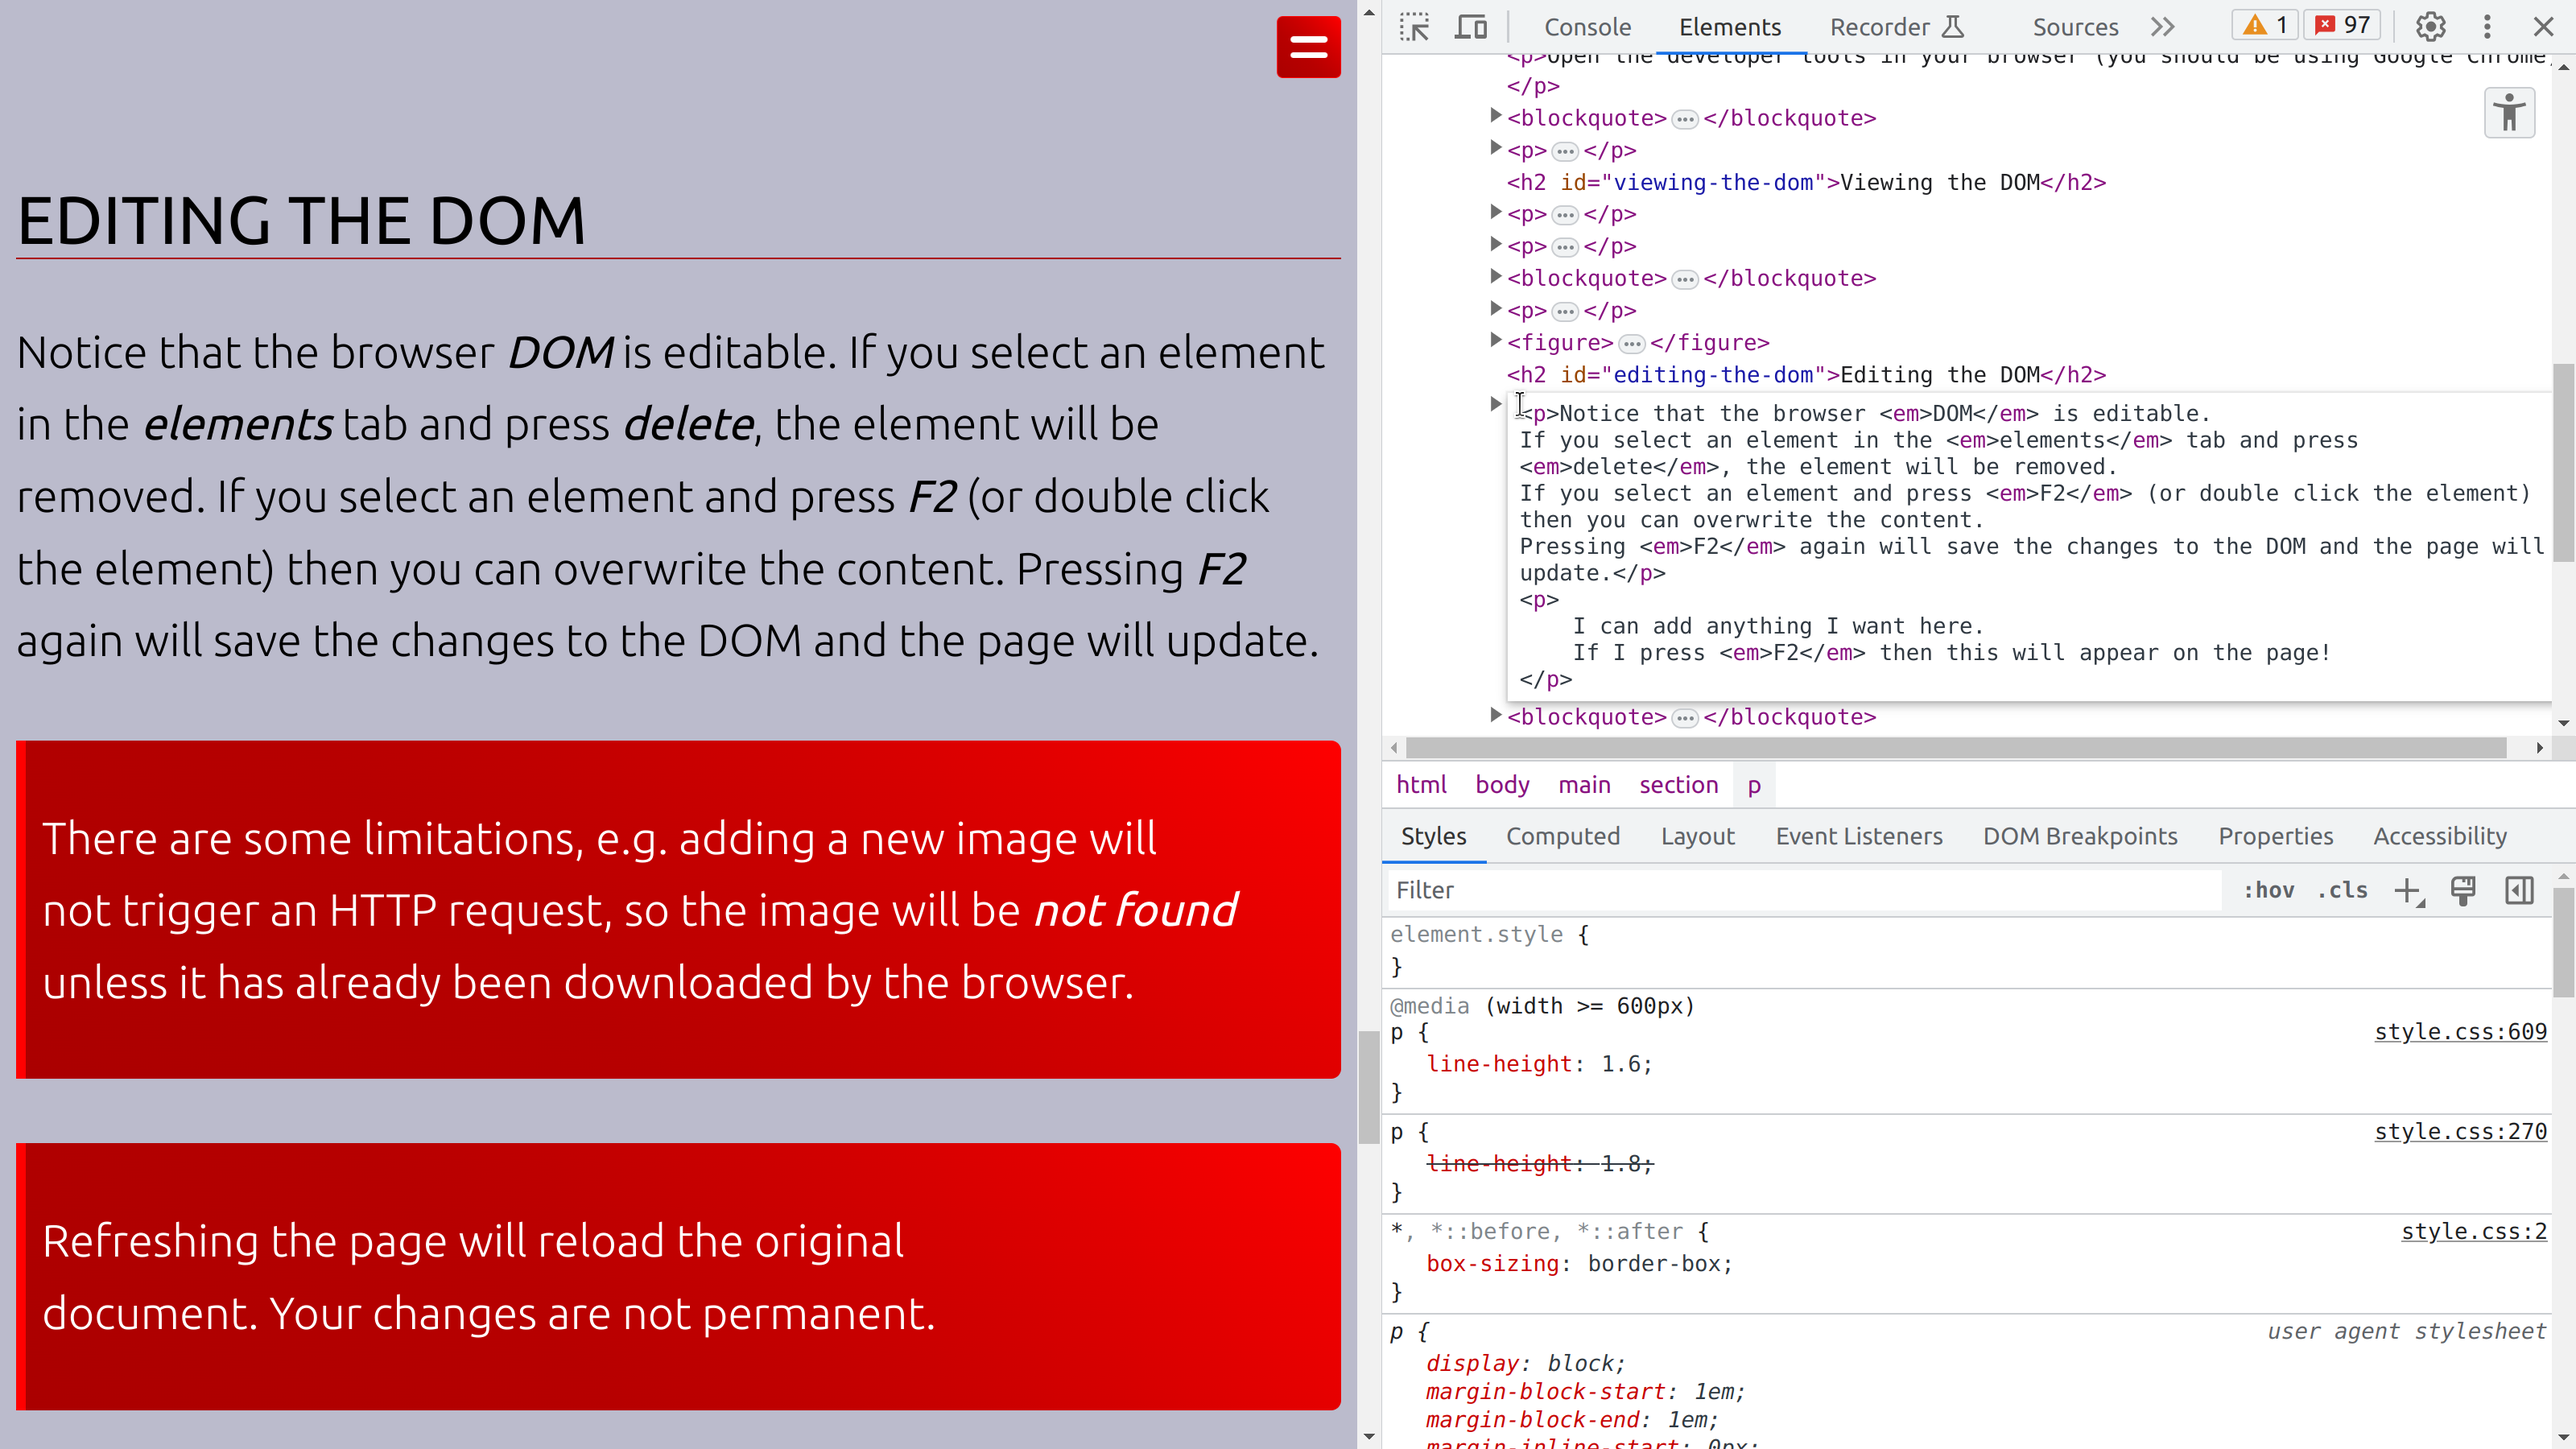
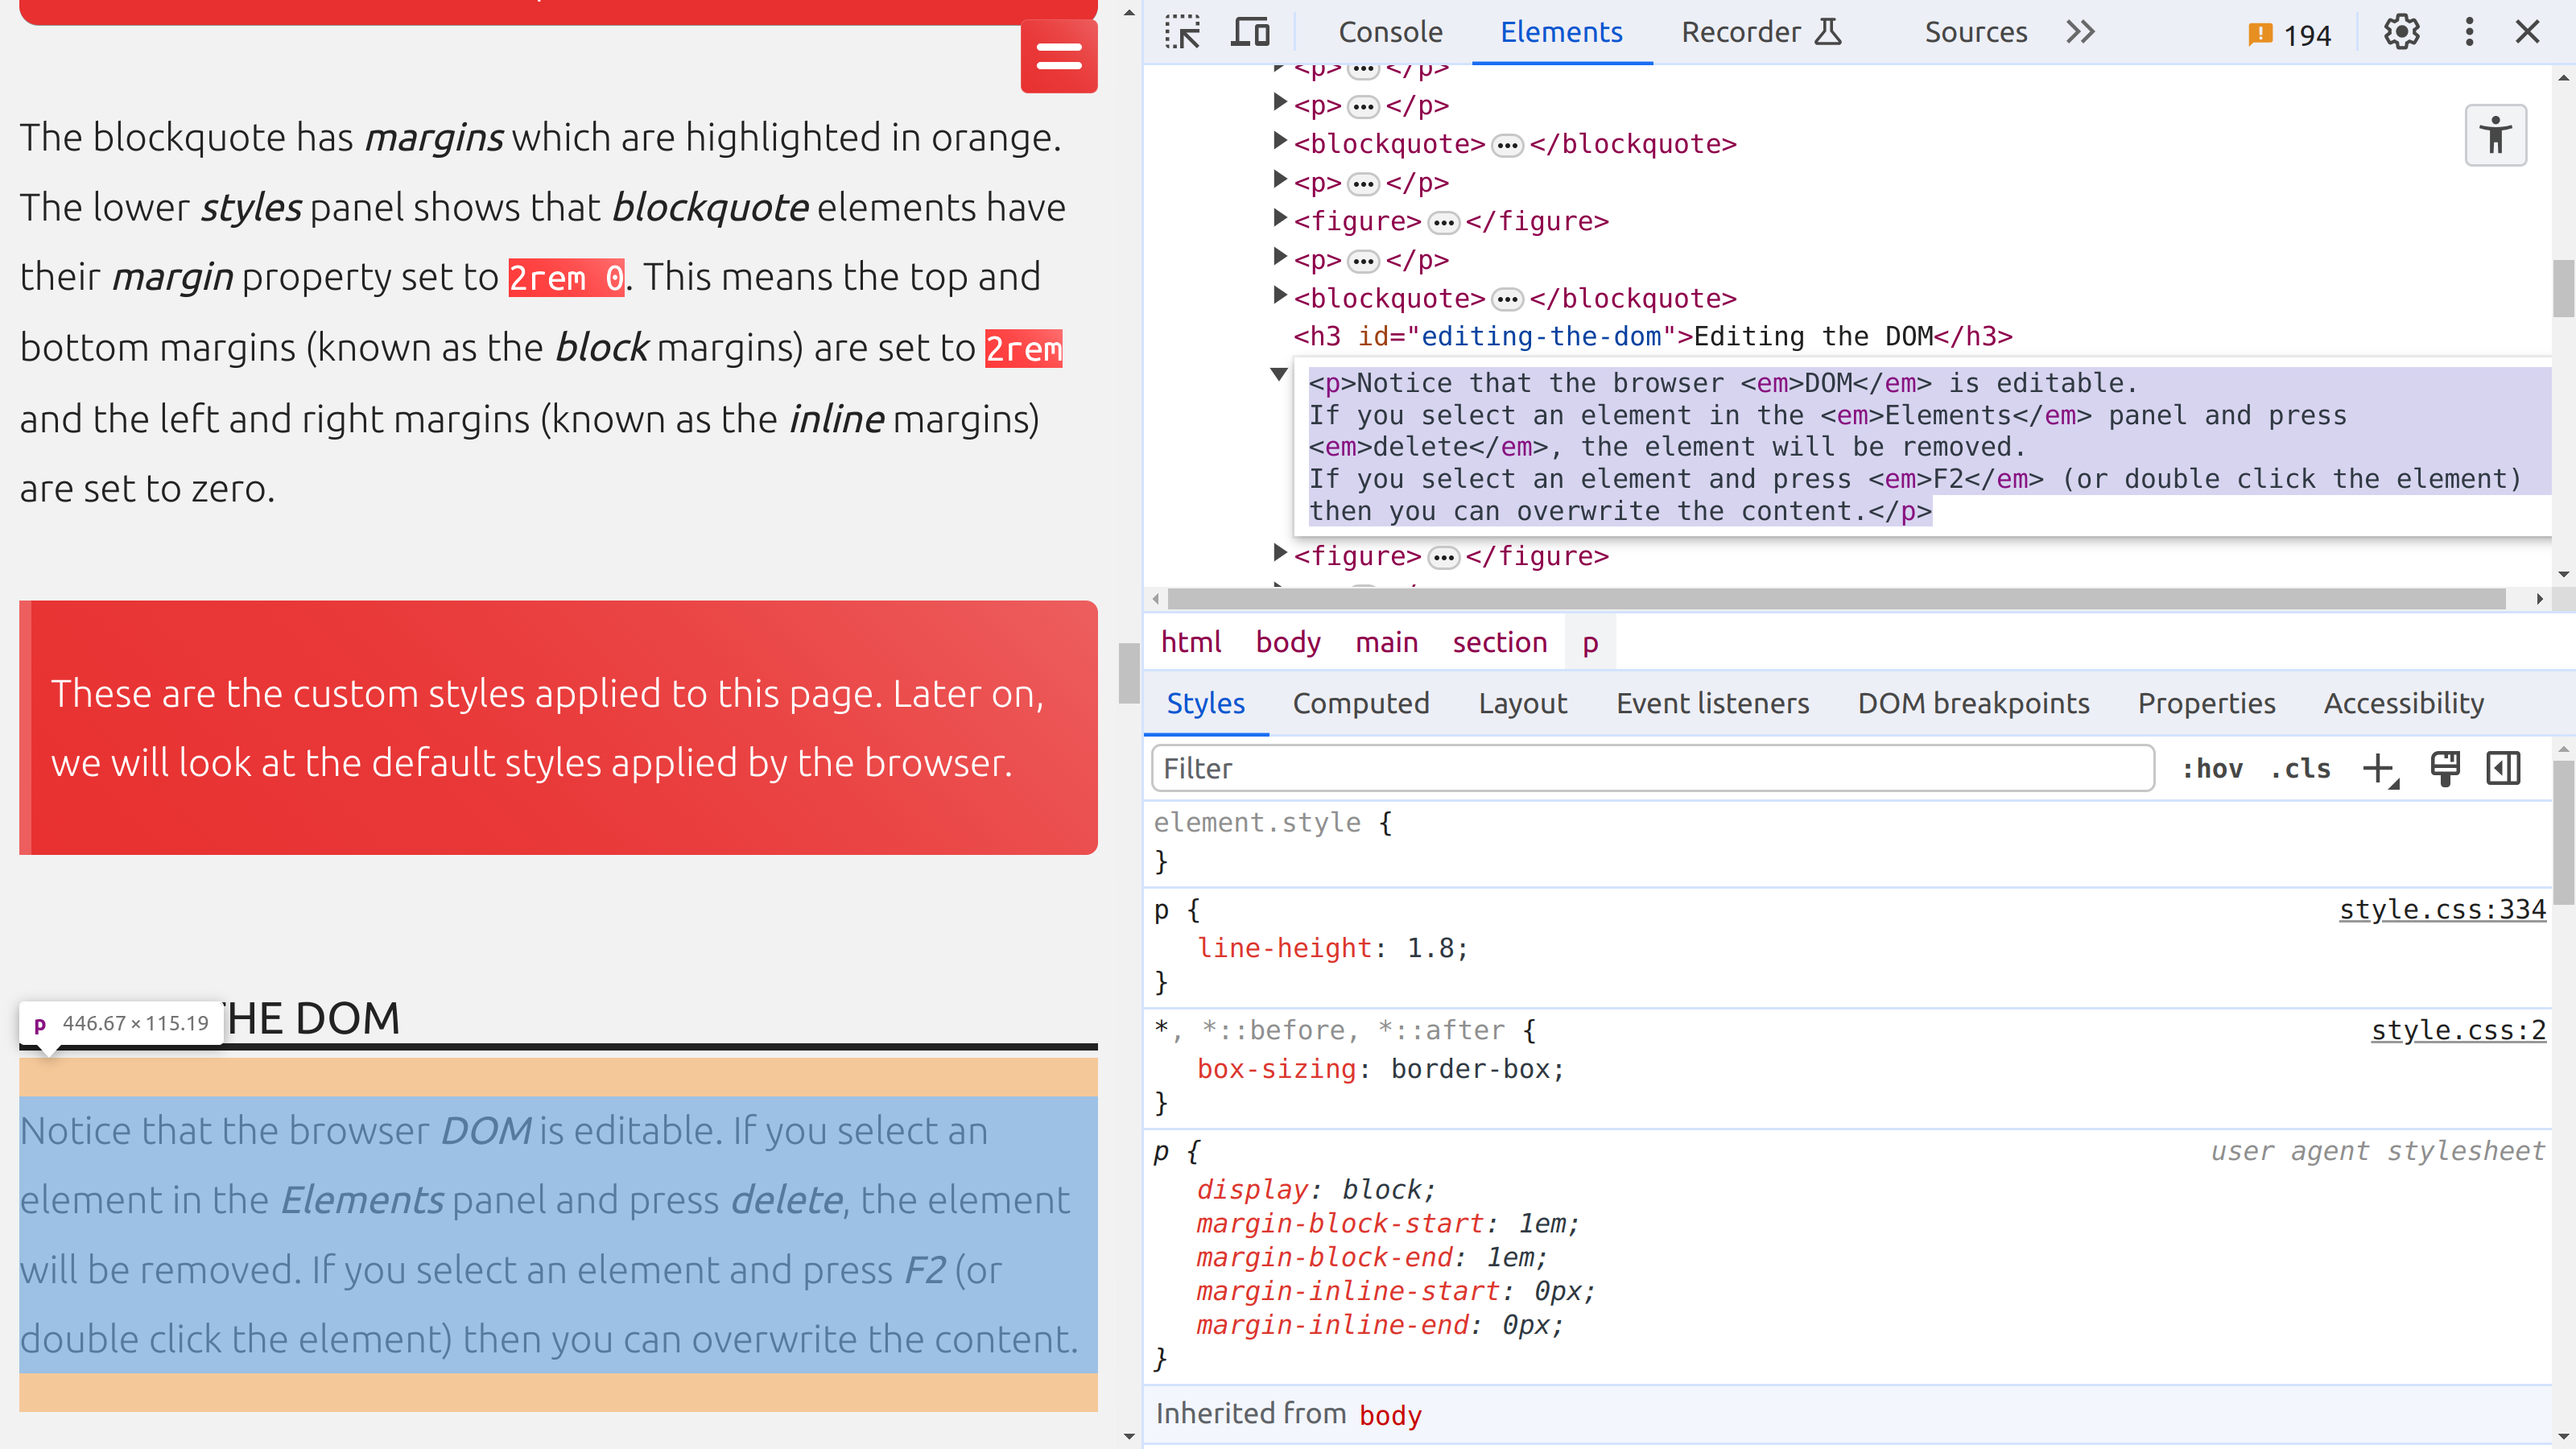
chrome content tweaks.

diff --git a/content/welcome/chrome/index.md b/content/welcome/chrome/index.md
@@ -37,6 +37,9 @@ The window includes tabs at the top to open multiple pages at once and a thin to
 Scroll around the page from a users perspective.
 
 > You can also view this site on a mobile device, notice the differences.
+>
+>{{<iframe src="https://ggstuart.github.io/web-application-development/welcome/chrome/#google-chrome" width="400" height="600">}}{{</iframe>}}
+
 
 Notice the structure.
 There is a header at the top with the module title.
@@ -100,6 +103,9 @@ The blockquote has *margins* which are highlighted in orange.
 The lower *styles* panel shows that *blockquote* elements have their *margin* property set to `2rem 0`.
 This means the top and bottom margins (known as the *block* margins) are set to `2rem` and the left and right margins (known as the *inline* margins) are set to zero.
 
+> These are the custom styles applied to this page.
+Later on, we will look at the default styles applied by the browser.
+
 ### Editing the DOM
 
 Notice that the browser *DOM* is editable.
@@ -118,6 +124,7 @@ Your changes are not permanent.
 >```html {linenos=false}
 ><img src="http://www.placekitten.com/600/200" alt="a random kitten">
 >```
+> Remember to press *F2* to apply the change. 
 > You should see an image of a random kitten from [placekitten.com](http://www.placekitten.com).
 
 ### Editing style rules

diff --git a/content/welcome/_index.md b/content/welcome/_index.md
@@ -1,5 +1,5 @@
 ---
-title: welcome to the front-end
+title: welcome
 type: unit
 weight: 5
 ---
